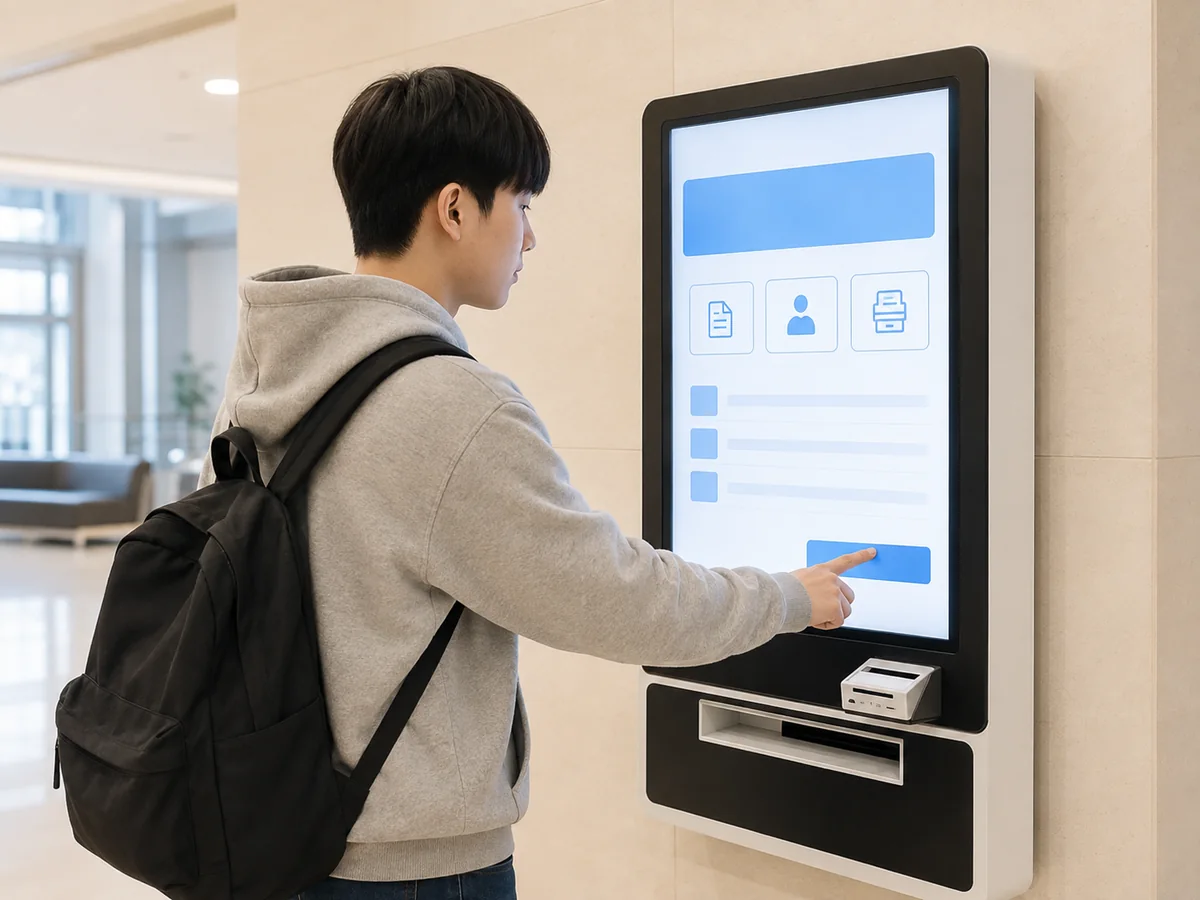
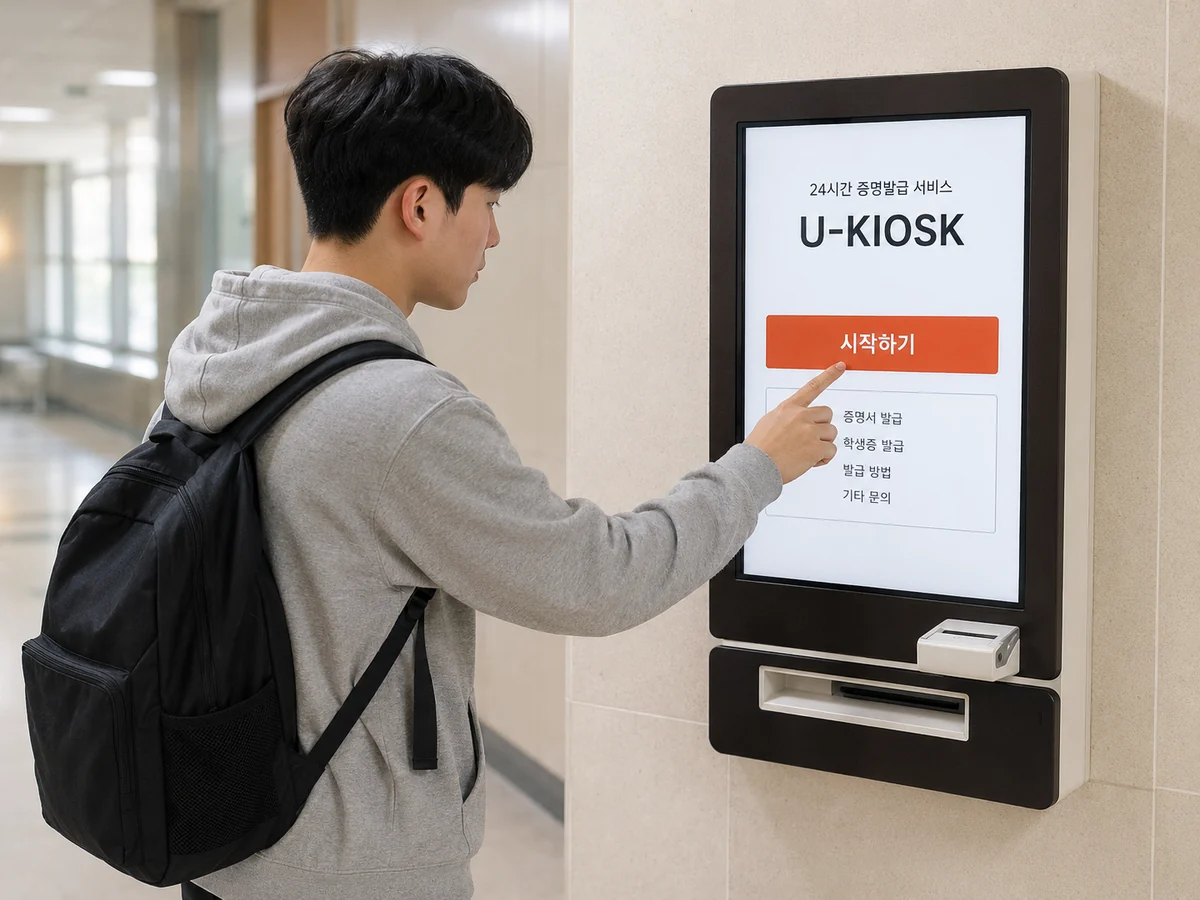
무인발급기: 화면에 실제 한글 안내문 반영 (글자 없던 문제 해결)
- 화면 무텍스트 → '24시간 증명발급 서비스 / U-KIOSK / 시작하기 / 증명서 발급·학생증 발급·발급 방법·기타 문의'
- 직전 생성본에 실존 타 대학(우석대학교) 이름·로고·전화번호가 삽입돼 폐기, 명시적으로 차단 후 재생성
- 학생이 시작하기 버튼을 누르는 자연스러운 자세 포함
- 캐시버스트 ?v=5

diff --git a/life-vi.html b/life-vi.html
@@ -158,7 +158,7 @@
         <div class="ccard"><span class="cthumb"><img src="assets/img/fac/fac-library-2.webp" alt="Thư viện" loading="lazy"></span><span class="cc-body"><span class="cc-t">Thư viện</span><span class="cc-d">왕인관(4번) tầng 2 · 09:00~17:30 · Nơi bán giáo trình</span></span></div>
         <div class="ccard"><span class="cthumb"><img src="assets/img/fac/fac-cafeteria-2.webp" alt="Nhà ăn sinh viên" loading="lazy"></span><span class="cc-body"><span class="cc-t">Nhà ăn sinh viên</span><span class="cc-d">봉석관(6번) tầng 1 · 09:00~15:00</span></span></div>
         <div class="ccard"><span class="cthumb"><img src="assets/img/fac/fac-lounge-2.webp" alt="Phòng nghỉ" loading="lazy"></span><span class="cc-body"><span class="cc-t">Phòng nghỉ</span><span class="cc-d">본관(1번) phòng 112 · 09:00~18:00</span></span></div>
-        <div class="ccard"><span class="cthumb"><img src="assets/img/fac/fac-kiosk-2.webp?v=4" alt="Hệ thống cấp giấy chứng nhận tự động" loading="lazy"></span><span class="cc-body"><span class="cc-t">Hệ thống cấp giấy chứng nhận tự động</span><span class="cc-d">본관(1번) sảnh · 09:00~18:00</span></span></div>
+        <div class="ccard"><span class="cthumb"><img src="assets/img/fac/fac-kiosk-2.webp?v=5" alt="Hệ thống cấp giấy chứng nhận tự động" loading="lazy"></span><span class="cc-body"><span class="cc-t">Hệ thống cấp giấy chứng nhận tự động</span><span class="cc-d">본관(1번) sảnh · 09:00~18:00</span></span></div>
         <div class="ccard"><span class="cthumb"><img src="assets/img/fac/fac-landscape.webp" alt="Xưởng thực hành chuyên ngành Cảnh quan giải trí" loading="lazy"></span><span class="cc-body"><span class="cc-t">Xưởng thực hành chuyên ngành Cảnh quan giải trí</span><span class="cc-d">Cạnh 정무관(10번) · 09:00~18:00</span></span></div>
         <div class="ccard"><span class="cthumb"><img src="assets/img/fac/fac-field-2.webp" alt="Sân vận động" loading="lazy"></span><span class="cc-body"><span class="cc-t">Sân vận động</span><span class="cc-d">Trước 월출관(13번)·정무관(10번) · 09:00~18:00</span></span></div>
         <div class="ccard"><span class="cthumb"><img src="assets/img/fac/fac-capstone.webp" alt="Xưởng thực hành capstone chuyên ngành Cảnh quan giải trí" loading="lazy"></span><span class="cc-body"><span class="cc-t">Xưởng thực hành capstone Cảnh quan giải trí</span><span class="cc-d">Trước 왕인관(4번) · 09:00~18:00</span></span></div>

diff --git a/life.html b/life.html
@@ -158,7 +158,7 @@
         <div class="ccard"><span class="cthumb"><img src="assets/img/fac/fac-library-2.webp" alt="도서관" loading="lazy"></span><span class="cc-body"><span class="cc-t">도서관</span><span class="cc-d">왕인관(4번) 2층 · 09:00~17:30 · 교재 판매처</span></span></div>
         <div class="ccard"><span class="cthumb"><img src="assets/img/fac/fac-cafeteria-2.webp" alt="학생식당" loading="lazy"></span><span class="cc-body"><span class="cc-t">학생식당</span><span class="cc-d">봉석관(6번) 1층 · 09:00~15:00</span></span></div>
         <div class="ccard"><span class="cthumb"><img src="assets/img/fac/fac-lounge-2.webp" alt="휴게실" loading="lazy"></span><span class="cc-body"><span class="cc-t">휴게실</span><span class="cc-d">본관(1번) 112호 · 09:00~18:00</span></span></div>
-        <div class="ccard"><span class="cthumb"><img src="assets/img/fac/fac-kiosk-2.webp?v=4" alt="무인증명발급시스템" loading="lazy"></span><span class="cc-body"><span class="cc-t">무인증명발급시스템</span><span class="cc-d">본관(1번) 로비 · 09:00~18:00</span></span></div>
+        <div class="ccard"><span class="cthumb"><img src="assets/img/fac/fac-kiosk-2.webp?v=5" alt="무인증명발급시스템" loading="lazy"></span><span class="cc-body"><span class="cc-t">무인증명발급시스템</span><span class="cc-d">본관(1번) 로비 · 09:00~18:00</span></span></div>
         <div class="ccard"><span class="cthumb"><img src="assets/img/fac/fac-landscape.webp" alt="레저조경전공 실습장" loading="lazy"></span><span class="cc-body"><span class="cc-t">레저조경전공 실습장</span><span class="cc-d">정무관(10번) 옆 · 09:00~18:00</span></span></div>
         <div class="ccard"><span class="cthumb"><img src="assets/img/fac/fac-field-2.webp" alt="운동장" loading="lazy"></span><span class="cc-body"><span class="cc-t">운동장</span><span class="cc-d">월출관(13번)·정무관(10번) 앞 · 09:00~18:00</span></span></div>
         <div class="ccard"><span class="cthumb"><img src="assets/img/fac/fac-capstone.webp" alt="레저조경전공 캡스톤 실습장" loading="lazy"></span><span class="cc-body"><span class="cc-t">레저조경 캡스톤 실습장</span><span class="cc-d">왕인관(4번) 앞 · 09:00~18:00</span></span></div>
